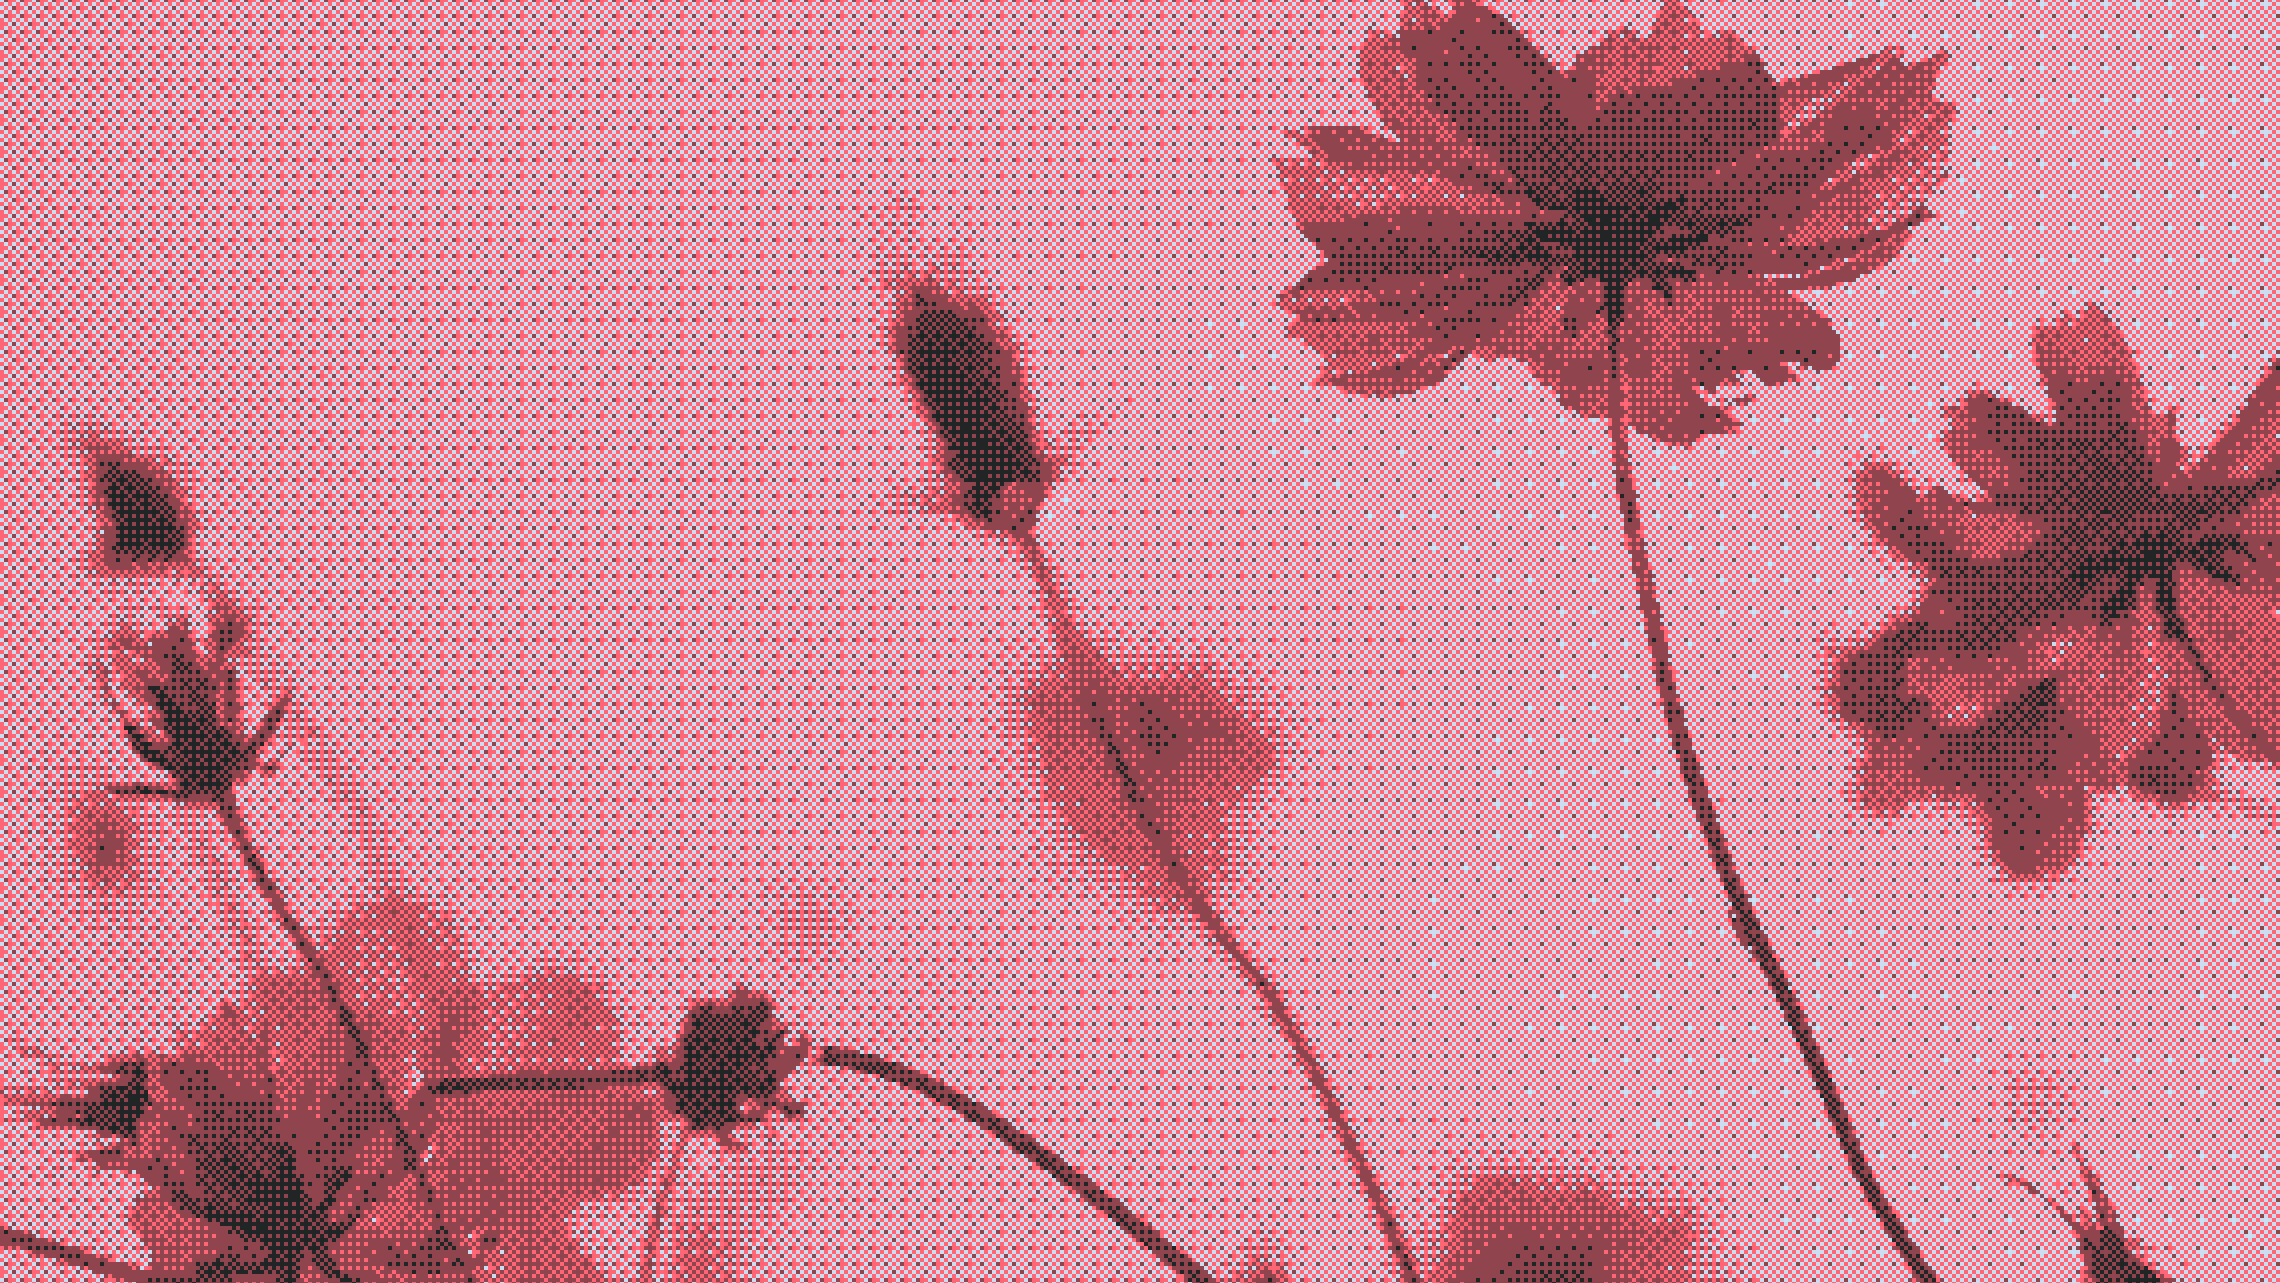
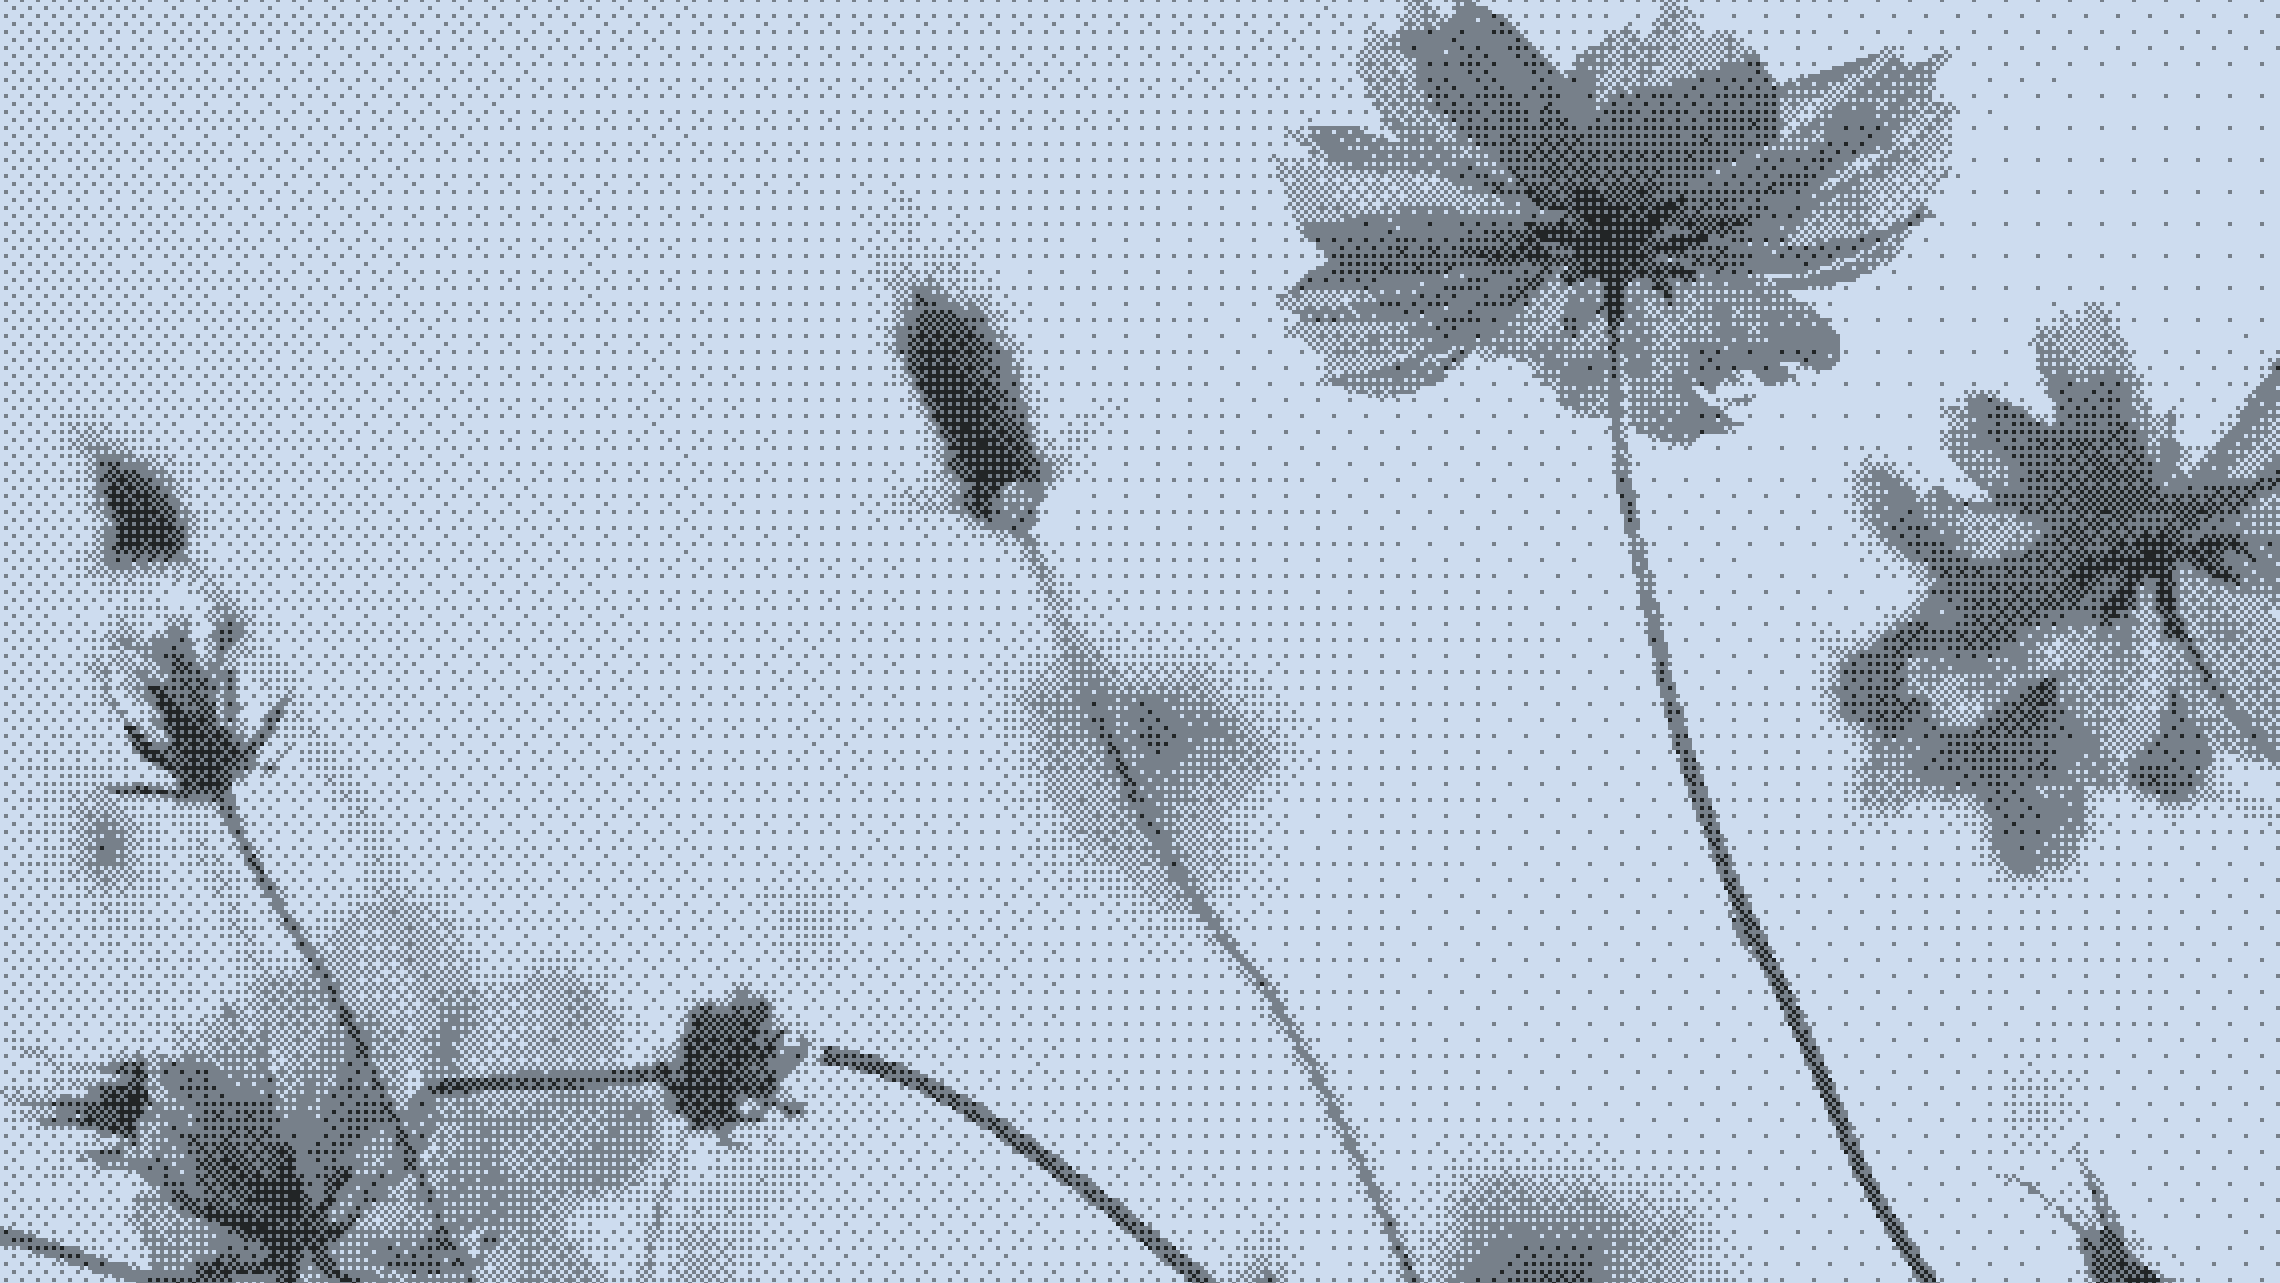
fix(cards): centre card copy against the photo band
The product and promo cards reserve the image height as bottom padding and
centre the title with the description inside what is left, so the gap above
the title matches the gap under the text instead of the bottom looking
roomier.

diff --git a/src/components/blocks/HomeBlocks.module.css b/src/components/blocks/HomeBlocks.module.css
@@ -1,11 +1,15 @@
 /* Product cards */
 .product {
+  --media: 240px;
   position: relative;
   display: flex;
   flex-direction: column;
   align-items: center;
+  justify-content: center;
   min-height: 408px;
-  padding: 32px;
+  /* Reserve the photo band, then centre the text inside what is left:
+     the gap above the title equals the gap under the description. */
+  padding: 0 32px var(--media);
   overflow: hidden;
   border-radius: var(--tb-radius-l);
   text-align: center;
@@ -56,25 +60,31 @@
   bottom: 0;
   left: 0;
   width: 100%;
-  height: 240px;
+  height: var(--media);
   object-fit: cover;
   object-position: center 10%;
 }
 
 .productCta {
-  position: relative;
+  position: absolute;
+  right: 0;
+  bottom: 32px;
+  left: 0;
   z-index: 1;
-  margin-top: auto;
+  display: flex;
+  justify-content: center;
 }
 
 /* Promo cards */
 .promo {
+  --media: 290px;
   position: relative;
   display: flex;
   flex-direction: column;
   align-items: center;
+  justify-content: center;
   min-height: 408px;
-  padding: 32px;
+  padding: 0 32px var(--media);
   overflow: hidden;
   border-radius: var(--tb-radius-l);
   text-align: center;
@@ -109,15 +119,19 @@
   bottom: 0;
   left: 0;
   width: 100%;
-  height: 290px;
+  height: var(--media);
   object-fit: cover;
   object-position: center 10%;
 }
 
 .promoCta {
-  position: relative;
+  position: absolute;
+  right: 0;
+  bottom: 32px;
+  left: 0;
   z-index: 1;
-  margin-top: auto;
+  display: flex;
+  justify-content: center;
 }
 
 /* Text cards */
@@ -294,15 +308,21 @@
 }
 
 @media (max-width: 599px) {
-  .product,
-  .promo {
+  .product {
+    --media: 200px;
     min-height: 340px;
-    padding: 24px;
+    padding: 0 24px var(--media);
   }
 
-  .productMedia,
-  .promoMedia {
-    height: 200px;
+  .promo {
+    --media: 220px;
+    min-height: 340px;
+    padding: 0 24px var(--media);
+  }
+
+  .productCta,
+  .promoCta {
+    bottom: 24px;
   }
 
   .textCard {

diff --git a/README.md b/README.md
@@ -66,8 +66,6 @@ src/
 
 Manrope — база интерфейса и заголовков, Linux Libertine — цитаты и длинный научный текст, JetBrains Mono — код, стек-трейсы и номера строк. Токены: `--tb-font-text`, `--tb-font-heading`, `--tb-font-quote`, `--tb-font-mono`. Файлы лежат в `src/assets/fonts` и собираются в `dist/assets`, поэтому работают и в демо, и в пакете.
 
-Manrope и JetBrains Mono распространяются под OFL, взяты subset-файлами с Google Fonts. Linux Libertine — GPL-2.0 с font exception, дополнительно OFL; OTF с CTAN сжат в woff2.
-
 ## Иконки
 
 Ant Design Icons (MIT). Данные лежат снапшотом в `src/components/ui/icons.ts`, runtime-зависимости нет: чтобы добавить иконку, допишите пару `имя: [путь]` из `@ant-design/icons-svg` или [shadcn.io/icons](https://www.shadcn.io/icons/ant-design). VK и Odnoklassniki в Ant Design отсутствуют и остались собственными путями.
@@ -87,4 +85,8 @@ npm run build-storybook
 
 ## Лицензии
 
-Код — MIT. Иконки — Ant Design Icons (MIT). Шрифты — по лицензиям выше.
+Код — MIT.
+Ant Design Icons — MIT.
+Manrope — OFL.
+JetBrains Mono — OFL.
+Linux Libertine — GPL-2.0 с font exception, дополнительно OFL.
